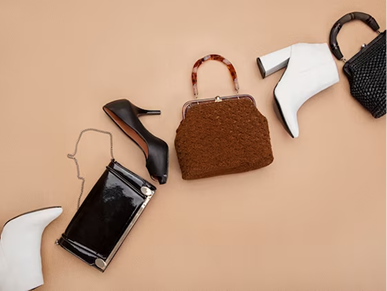
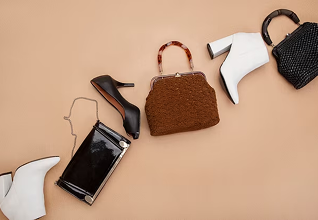
Add new hero and latest collection images; update layout and styles

diff --git a/frontend/src/assets/js/main.ts b/frontend/src/assets/js/main.ts
@@ -17,6 +17,7 @@ document.addEventListener('DOMContentLoaded', () => {
 	initGridMobile('.testimonial__grid', '.testimonial__item');
 	initGridMobile('.faq__grid', '.faq__item');
 	initMarqueeLinks('.marquee-links');
+	initCounters('.hero__counter-item h2');
 });
 
 // finctions
@@ -85,8 +86,6 @@ function initGridMobile(parentEl: string, childEl: string) {
 		const gridItems = parentEl.querySelectorAll<HTMLElement>(childEl);
 
 		if (!gridItems.length) return;
-
-		console.log(typeof gridItems);
 
 		if (gridItems.length > 3) {
 			let isOpened = false;
@@ -182,4 +181,75 @@ function initMarqueeLinks(selector: string) {
 		observer.observe(marquee);
 		observer.observe(baseList);
 	});
+}
+
+// counts the number in the element's first text node up from 0 when the element
+// scrolls into view; the rest of the text ("+", "%", <small>) stays as it is
+function initCounters(selector: string, duration = 1500) {
+	const counters = document.querySelectorAll<HTMLElement>(selector);
+
+	if (!counters.length) return;
+
+	if (window.matchMedia('(prefers-reduced-motion: reduce)').matches) return;
+
+	const items = [...counters].flatMap((counter) => {
+		const textNode = [...counter.childNodes].find(
+			(node): node is Text => node instanceof Text && /\d/.test(node.data)
+		);
+		const match = textNode?.data.match(/\d[\d,]*(\.\d+)?/);
+
+		if (!textNode || !match) return [];
+
+		const original = textNode.data;
+		const [before, after] = [
+			original.slice(0, match.index),
+			original.slice(match.index! + match[0].length),
+		];
+		const target = parseFloat(match[0].replace(/,/g, ''));
+		const formatter = new Intl.NumberFormat('en-US', {
+			useGrouping: match[0].includes(','),
+			minimumFractionDigits: match[1] ? match[1].length - 1 : 0,
+			maximumFractionDigits: match[1] ? match[1].length - 1 : 0,
+		});
+		const render = (value: number) => {
+			textNode.data = before + formatter.format(value) + after;
+		};
+
+		render(0);
+
+		return [{ counter, original, target, render, textNode }];
+	});
+
+	const observer = new IntersectionObserver(
+		(entries) => {
+			entries.forEach((entry) => {
+				if (!entry.isIntersecting) return;
+
+				observer.unobserve(entry.target);
+
+				const item = items.find(({ counter }) => counter === entry.target);
+
+				if (!item) return;
+
+				const start = performance.now();
+
+				function tick(now: number) {
+					const progress = Math.min((now - start) / duration, 1);
+					const eased = 1 - (1 - progress) ** 3; // ease-out cubic
+
+					if (progress < 1) {
+						item!.render(item!.target * eased);
+						requestAnimationFrame(tick);
+					} else {
+						item!.textNode.data = item!.original;
+					}
+				}
+
+				requestAnimationFrame(tick);
+			});
+		},
+		{ threshold: 0.6 }
+	);
+
+	items.forEach(({ counter }) => observer.observe(counter));
 }

diff --git a/frontend/src/assets/scss/layout/_testimonial.scss b/frontend/src/assets/scss/layout/_testimonial.scss
@@ -94,34 +94,57 @@
 			gap: 40px;
 		}
 
-		// corner chevrons on the seam between the two rows (3-column layout only)
+		// corner chevrons on the seam between the two rows (3-column layout only):
+		// two parallel bars = top + bottom border of a skewed box
 		@include lg {
 			&:nth-child(1),
 			&:nth-child(3),
 			&:nth-child(4),
 			&:nth-child(6) {
+				--corner-w: 43px;
+				--corner-bar: 5px;
+				--corner-gap: 15px;
+				--corner-y: 34px;
+				--corner-angle: 42.5deg;
+
+				@include xxl {
+					--corner-w: 62px;
+					--corner-bar: 7px;
+					--corner-gap: 21px;
+					--corner-y: 49px;
+				}
+
 				&::after {
-					--offset: -14px;
 					content: "";
 					position: absolute;
-					width: 43px;
-					height: 52px;
-					background: url("../../images/bg-testimonial-corner.svg") no-repeat 0 0 / 100%
-						100%;
+					width: var(--corner-w);
+					height: calc(var(--corner-gap) + var(--corner-bar) * 2);
+					border-block: var(--corner-bar) solid var(--dark-12);
+					transform: skewY(calc(var(--corner-dir) * var(--corner-angle)));
 					pointer-events: none;
+				}
+			}
 
-					@include xxl {
-						--offset: -20px;
-						width: 62px;
-						height: 75px;
-					}
+			// bars run down from the left/right edge towards the row seam
+			&:nth-child(1),
+			&:nth-child(3) {
+				&::after {
+					top: calc(100% - var(--corner-y));
+				}
+			}
+
+			// mirrored: bars run up towards the row seam
+			&:nth-child(4),
+			&:nth-child(6) {
+				&::after {
+					bottom: calc(100% - var(--corner-y));
 				}
 			}
 
 			&:nth-child(1),
 			&:nth-child(4) {
 				&::after {
-					left: -5px;
+					left: 0;
 				}
 			}
 
@@ -132,23 +155,36 @@
 				}
 			}
 
-			&:nth-child(1)::after {
-				bottom: var(--offset);
+			&:nth-child(1) {
+				--corner-dir: 1;
+
+				&::after {
+					transform-origin: left top;
+				}
 			}
 
-			&:nth-child(3)::after {
-				bottom: var(--offset);
-				scale: -1 1;
+			&:nth-child(3) {
+				--corner-dir: -1;
+
+				&::after {
+					transform-origin: right top;
+				}
 			}
 
-			&:nth-child(4)::after {
-				top: var(--offset);
-				scale: 1 -1;
+			&:nth-child(4) {
+				--corner-dir: -1;
+
+				&::after {
+					transform-origin: left bottom;
+				}
 			}
 
-			&:nth-child(6)::after {
-				top: var(--offset);
-				scale: -1 -1;
+			&:nth-child(6) {
+				--corner-dir: 1;
+
+				&::after {
+					transform-origin: right bottom;
+				}
 			}
 		}
 

diff --git a/frontend/src/assets/scss/layout/_hero.scss b/frontend/src/assets/scss/layout/_hero.scss
@@ -181,10 +181,31 @@
 			border-top-width: 2px;
 		}
 
-		h3 {
+		// number + caption: <h2>1,500 + <small>Fashion Products</small></h2>
+		h2 {
 			font-size: 30px;
 			line-height: 1.5;
-			margin-block: 0 -2px;
+			text-transform: none;
+			font-variant-numeric: tabular-nums; // digits keep their width while counting
+			margin-block: 0;
+		}
+
+		small {
+			display: block;
+			margin-block-start: -2px;
+			font-size: var(--text-sm);
+			font-weight: var(--font-regular);
+			line-height: var(--leading-normal);
+			color: var(--gray-40);
+
+			@include xl {
+				font-size: var(--text-base);
+			}
+
+			@include xxl {
+				margin-block-start: -5px;
+				font-size: var(--text-lg);
+			}
 		}
 
 		@include lg {
@@ -197,7 +218,7 @@
 				border-top-width: 0;
 			}
 
-			h3 {
+			h2 {
 				font-size: 34px;
 			}
 		}
@@ -210,9 +231,8 @@
 				padding-block: 70px 42px;
 			}
 
-			h3 {
+			h2 {
 				font-size: 50px;
-				margin-block-end: -5px;
 			}
 		}
 	}

diff --git a/frontend/src/assets/scss/layout/_latest-collection.scss b/frontend/src/assets/scss/layout/_latest-collection.scss
@@ -137,6 +137,17 @@
 		}
 	}
 
+	// .latest-collection__picture
+	// keeps the <img> as the grid item of the subgrid;
+	// <source> must be hidden, otherwise it takes a grid row
+	&__picture {
+		display: contents;
+
+		source {
+			display: none;
+		}
+	}
+
 	// .latest-collection__image
 	&__image {
 		aspect-ratio: 318/220;
